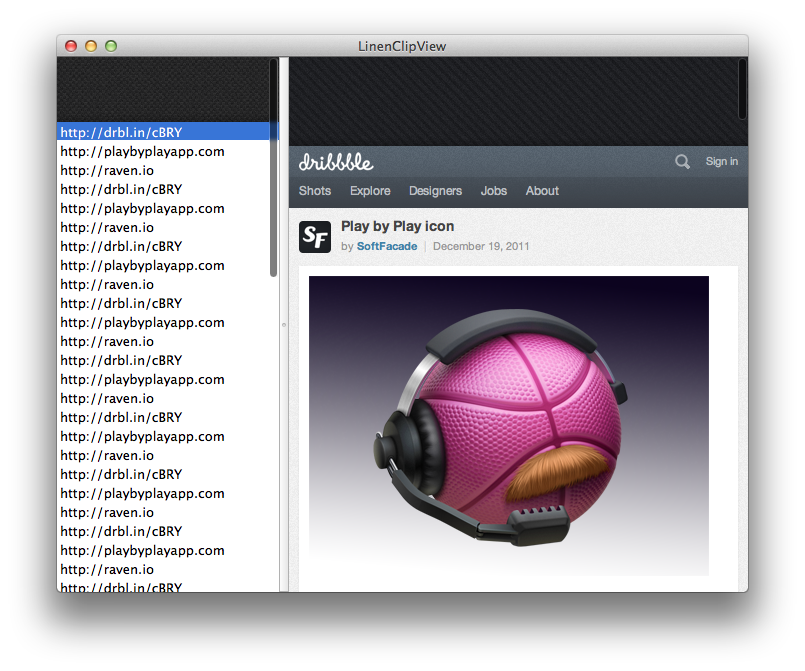
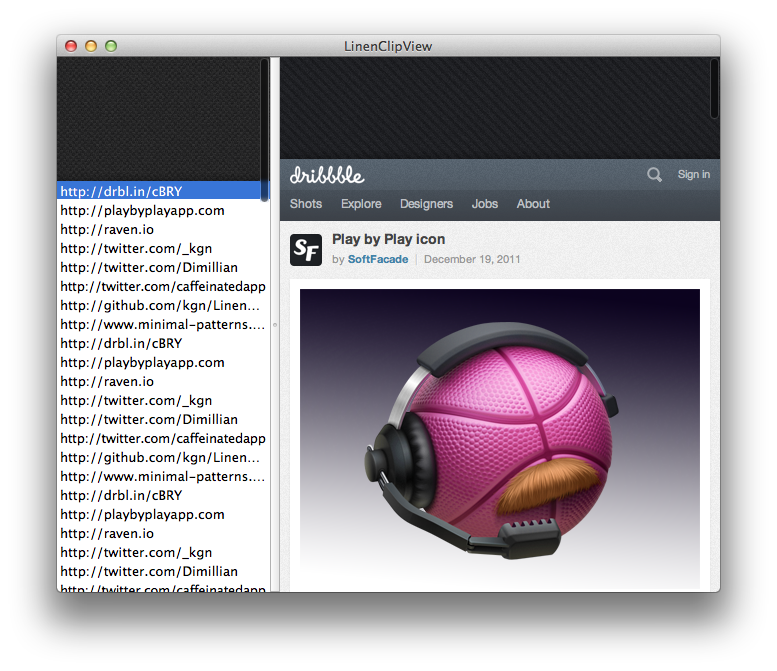
Updating urls in sample app

Changed region(s): [[0.0618, 0.0596, 0.9575, 0.8942], [0.4324, 0.0596, 0.556, 0.0894]]

diff --git a/LNAppDelegate.m b/LNAppDelegate.m
@@ -29,13 +29,16 @@
 #pragma table delegte and data store
 
 - (void)applicationDidFinishLaunching:(NSNotification *)notification{
-    _links = [NSArray arrayWithObjects:@"http://drbl.in/cBRY", @"http://playbyplayapp.com", @"http://raven.io", nil];
+    _links = [NSArray arrayWithObjects:@"http://drbl.in/cBRY", @"http://playbyplayapp.com", @"http://raven.io",
+              @"http://twitter.com/_kgn", @"http://twitter.com/Dimillian", @"http://twitter.com/caffeinatedapp",
+              @"http://github.com/kgn/LinenClipView", @"http://www.minimal-patterns.com",
+              nil];
     [self.tableView reloadData];
     [self.tableView selectRowIndexes:[NSIndexSet indexSetWithIndex:0] byExtendingSelection:NO];
 }
 
 - (NSInteger)numberOfRowsInTableView:(NSTableView *)tableView{
-    return [_links count]*20;
+    return [_links count]*10;
 }
 
 - (id)tableView:(NSTableView *)tableView objectValueForTableColumn:(NSTableColumn *)tableColumn row:(NSInteger)rowIndex{
